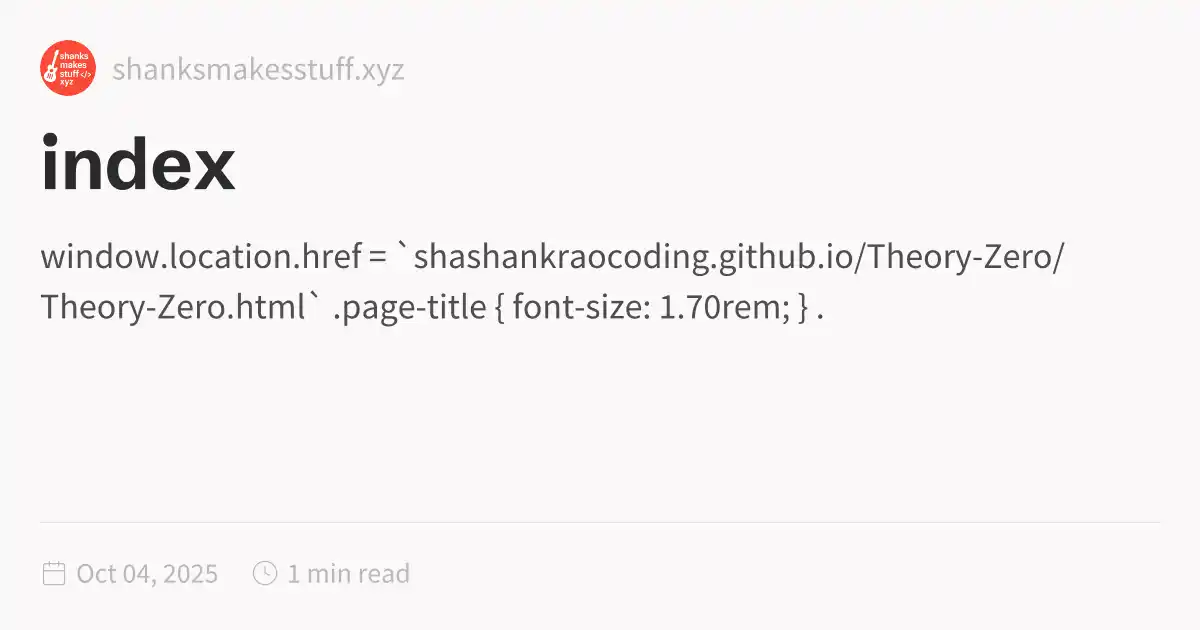
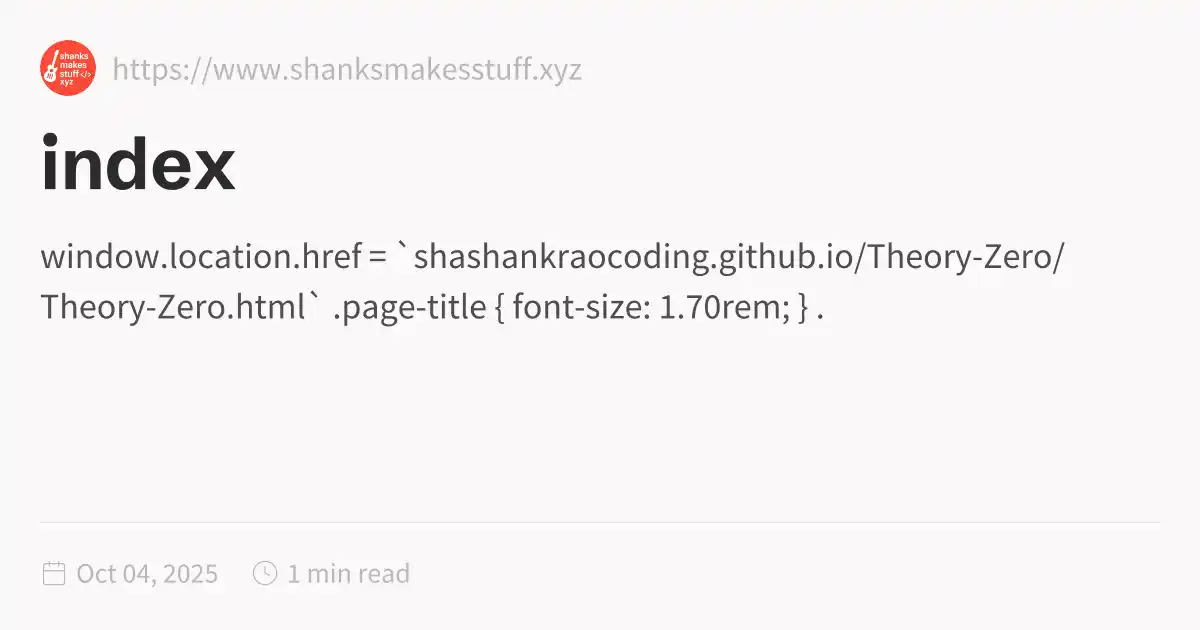
2025-11-30_2357

Changed region(s): [[0.0925, 0.0905, 0.4933, 0.1508]]

diff --git a/Theory-Zero.html b/Theory-Zero.html
@@ -1,5 +1,5 @@
 <!DOCTYPE html>
-<html lang="en"><head><title>Theory Zero</title><meta charset="utf-8"/><link rel="preconnect" href="https://fonts.googleapis.com"/><link rel="preconnect" href="https://fonts.gstatic.com"/><link rel="stylesheet" href="https://fonts.googleapis.com/css2?family=Schibsted Grotesk:wght@400;700&amp;family=Source Sans Pro:ital,wght@0,400;0,600;1,400;1,600&amp;family=IBM Plex Mono:wght@400;600&amp;display=swap"/><link rel="preconnect" href="https://cdnjs.cloudflare.com" crossorigin="anonymous"/><meta name="viewport" content="width=device-width, initial-scale=1.0"/><meta name="og:site_name" content="ShanksMakesStuff"/><meta property="og:title" content="Theory Zero"/><meta property="og:type" content="website"/><meta name="twitter:card" content="summary_large_image"/><meta name="twitter:title" content="Theory Zero"/><meta name="twitter:description" content=".page-title { font-size: 1.70rem; text-wrap: nowrap; max-inline-size: 25vw; overflow: hidden; flex-wrap: no-wrap; } Introduction: This novelette attempts to explain why individuals organise into societal structures from a rules and survival based perspective, exploring historical examples and argum..."/><meta property="og:description" content=".page-title { font-size: 1.70rem; text-wrap: nowrap; max-inline-size: 25vw; overflow: hidden; flex-wrap: no-wrap; } Introduction: This novelette attempts to explain why individuals organise into societal structures from a rules and survival based perspective, exploring historical examples and argum..."/><meta property="og:image:alt" content=".page-title { font-size: 1.70rem; text-wrap: nowrap; max-inline-size: 25vw; overflow: hidden; flex-wrap: no-wrap; } Introduction: This novelette attempts to explain why individuals organise into societal structures from a rules and survival based perspective, exploring historical examples and argum..."/><meta property="twitter:domain" content="shanksmakesstuff.xyz"/><meta property="og:url" content="https://shanksmakesstuff.xyz/Theory-Zero"/><meta property="twitter:url" content="https://shanksmakesstuff.xyz/Theory-Zero"/><link rel="icon" href="./static/icon.png"/><meta name="description" content=".page-title { font-size: 1.70rem; text-wrap: nowrap; max-inline-size: 25vw; overflow: hidden; flex-wrap: no-wrap; } Introduction: This novelette attempts to explain why individuals organise into societal structures from a rules and survival based perspective, exploring historical examples and argum..."/><meta name="generator" content="Quartz"/><link href="./index.css" rel="stylesheet" type="text/css" spa-preserve/><style>.expand-button {
+<html lang="en"><head><title>Theory Zero</title><meta charset="utf-8"/><link rel="preconnect" href="https://fonts.googleapis.com"/><link rel="preconnect" href="https://fonts.gstatic.com"/><link rel="stylesheet" href="https://fonts.googleapis.com/css2?family=Schibsted Grotesk:wght@400;700&amp;family=Source Sans Pro:ital,wght@0,400;0,600;1,400;1,600&amp;family=IBM Plex Mono:wght@400;600&amp;display=swap"/><link rel="preconnect" href="https://cdnjs.cloudflare.com" crossorigin="anonymous"/><meta name="viewport" content="width=device-width, initial-scale=1.0"/><meta name="og:site_name" content="ShanksMakesStuff"/><meta property="og:title" content="Theory Zero"/><meta property="og:type" content="website"/><meta name="twitter:card" content="summary_large_image"/><meta name="twitter:title" content="Theory Zero"/><meta name="twitter:description" content=".page-title { font-size: 1.70rem; text-wrap: nowrap; max-inline-size: 25vw; overflow: hidden; flex-wrap: no-wrap; } Introduction: This novelette attempts to explain why individuals organise into societal structures from a rules and survival based perspective, exploring historical examples and argum..."/><meta property="og:description" content=".page-title { font-size: 1.70rem; text-wrap: nowrap; max-inline-size: 25vw; overflow: hidden; flex-wrap: no-wrap; } Introduction: This novelette attempts to explain why individuals organise into societal structures from a rules and survival based perspective, exploring historical examples and argum..."/><meta property="og:image:alt" content=".page-title { font-size: 1.70rem; text-wrap: nowrap; max-inline-size: 25vw; overflow: hidden; flex-wrap: no-wrap; } Introduction: This novelette attempts to explain why individuals organise into societal structures from a rules and survival based perspective, exploring historical examples and argum..."/><meta property="twitter:domain" content="https://www.shanksmakesstuff.xyz"/><meta property="og:url" content="https://https//www.shanksmakesstuff.xyz/Theory-Zero"/><meta property="twitter:url" content="https://https//www.shanksmakesstuff.xyz/Theory-Zero"/><link rel="icon" href="./static/icon.png"/><meta name="description" content=".page-title { font-size: 1.70rem; text-wrap: nowrap; max-inline-size: 25vw; overflow: hidden; flex-wrap: no-wrap; } Introduction: This novelette attempts to explain why individuals organise into societal structures from a rules and survival based perspective, exploring historical examples and argum..."/><meta name="generator" content="Quartz"/><link href="./index.css" rel="stylesheet" type="text/css" spa-preserve/><style>.expand-button {
   position: absolute;
   display: flex;
   float: right;
@@ -116,7 +116,7 @@ pre:hover > .expand-button {
   padding: 0 12px;
   font-size: 14px;
 }
[2 lines of base64/hex data omitted]
 	<style> 
 		.page-title { 
 			font-size: 1.70rem; 

diff --git a/tags/index.html b/tags/index.html
@@ -1,5 +1,5 @@
 <!DOCTYPE html>
-<html lang="en"><head><title>Tag Index</title><meta charset="utf-8"/><link rel="preconnect" href="https://fonts.googleapis.com"/><link rel="preconnect" href="https://fonts.gstatic.com"/><link rel="stylesheet" href="https://fonts.googleapis.com/css2?family=Schibsted Grotesk:wght@400;700&amp;family=Source Sans Pro:ital,wght@0,400;0,600;1,400;1,600&amp;family=IBM Plex Mono:wght@400;600&amp;display=swap"/><link rel="preconnect" href="https://cdnjs.cloudflare.com" crossorigin="anonymous"/><meta name="viewport" content="width=device-width, initial-scale=1.0"/><meta name="og:site_name" content="ShanksMakesStuff"/><meta property="og:title" content="Tag Index"/><meta property="og:type" content="website"/><meta name="twitter:card" content="summary_large_image"/><meta name="twitter:title" content="Tag Index"/><meta name="twitter:description" content="No description provided"/><meta property="og:description" content="No description provided"/><meta property="og:image:alt" content="No description provided"/><meta property="twitter:domain" content="shanksmakesstuff.xyz"/><meta property="og:url" content="https://shanksmakesstuff.xyz/tags/index"/><meta property="twitter:url" content="https://shanksmakesstuff.xyz/tags/index"/><link rel="icon" href="../static/icon.png"/><meta name="description" content="No description provided"/><meta name="generator" content="Quartz"/><link href="../index.css" rel="stylesheet" type="text/css" spa-preserve/><style>.expand-button {
+<html lang="en"><head><title>Tag Index</title><meta charset="utf-8"/><link rel="preconnect" href="https://fonts.googleapis.com"/><link rel="preconnect" href="https://fonts.gstatic.com"/><link rel="stylesheet" href="https://fonts.googleapis.com/css2?family=Schibsted Grotesk:wght@400;700&amp;family=Source Sans Pro:ital,wght@0,400;0,600;1,400;1,600&amp;family=IBM Plex Mono:wght@400;600&amp;display=swap"/><link rel="preconnect" href="https://cdnjs.cloudflare.com" crossorigin="anonymous"/><meta name="viewport" content="width=device-width, initial-scale=1.0"/><meta name="og:site_name" content="ShanksMakesStuff"/><meta property="og:title" content="Tag Index"/><meta property="og:type" content="website"/><meta name="twitter:card" content="summary_large_image"/><meta name="twitter:title" content="Tag Index"/><meta name="twitter:description" content="No description provided"/><meta property="og:description" content="No description provided"/><meta property="og:image:alt" content="No description provided"/><meta property="twitter:domain" content="https://www.shanksmakesstuff.xyz"/><meta property="og:url" content="https://https//www.shanksmakesstuff.xyz/tags/index"/><meta property="twitter:url" content="https://https//www.shanksmakesstuff.xyz/tags/index"/><link rel="icon" href="../static/icon.png"/><meta name="description" content="No description provided"/><meta name="generator" content="Quartz"/><link href="../index.css" rel="stylesheet" type="text/css" spa-preserve/><style>.expand-button {
   position: absolute;
   display: flex;
   float: right;
@@ -116,6 +116,6 @@ pre:hover > .expand-button {
   padding: 0 12px;
   font-size: 14px;
 }
[2 lines of base64/hex data omitted]
 </script><script type="module">function f(i,e){if(!i)return;function r(o){o.target===this&&(o.preventDefault(),o.stopPropagation(),e())}function t(o){o.key.startsWith("Esc")&&(o.preventDefault(),e())}i?.addEventListener("click",r),window.addCleanup(()=>i?.removeEventListener("click",r)),document.addEventListener("keydown",t),window.addCleanup(()=>document.removeEventListener("keydown",t))}function y(i){for(;i.firstChild;)i.removeChild(i.firstChild)}var h=class{constructor(e,r){this.container=e;this.content=r;this.setupEventListeners(),this.setupNavigationControls(),this.resetTransform()}isDragging=!1;startPan={x:0,y:0};currentPan={x:0,y:0};scale=1;MIN_SCALE=.5;MAX_SCALE=3;cleanups=[];setupEventListeners(){let e=this.onMouseDown.bind(this),r=this.onMouseMove.bind(this),t=this.onMouseUp.bind(this),o=this.resetTransform.bind(this);this.container.addEventListener("mousedown",e),document.addEventListener("mousemove",r),document.addEventListener("mouseup",t),window.addEventListener("resize",o),this.cleanups.push(()=>this.container.removeEventListener("mousedown",e),()=>document.removeEventListener("mousemove",r),()=>document.removeEventListener("mouseup",t),()=>window.removeEventListener("resize",o))}cleanup(){for(let e of this.cleanups)e()}setupNavigationControls(){let e=document.createElement("div");e.className="mermaid-controls";let r=this.createButton("+",()=>this.zoom(.1)),t=this.createButton("-",()=>this.zoom(-.1)),o=this.createButton("Reset",()=>this.resetTransform());e.appendChild(t),e.appendChild(o),e.appendChild(r),this.container.appendChild(e)}createButton(e,r){let t=document.createElement("button");return t.textContent=e,t.className="mermaid-control-button",t.addEventListener("click",r),window.addCleanup(()=>t.removeEventListener("click",r)),t}onMouseDown(e){e.button===0&&(this.isDragging=!0,this.startPan={x:e.clientX-this.currentPan.x,y:e.clientY-this.currentPan.y},this.container.style.cursor="grabbing")}onMouseMove(e){this.isDragging&&(e.preventDefault(),this.currentPan={x:e.clientX-this.startPan.x,y:e.clientY-this.startPan.y},this.updateTransform())}onMouseUp(){this.isDragging=!1,this.container.style.cursor="grab"}zoom(e){let r=Math.min(Math.max(this.scale+e,this.MIN_SCALE),this.MAX_SCALE),t=this.content.getBoundingClientRect(),o=t.width/2,n=t.height/2,c=r-this.scale;this.currentPan.x-=o*c,this.currentPan.y-=n*c,this.scale=r,this.updateTransform()}updateTransform(){this.content.style.transform=`translate(${this.currentPan.x}px, ${this.currentPan.y}px) scale(${this.scale})`}resetTransform(){this.scale=1;let e=this.content.querySelector("svg");this.currentPan={x:e.getBoundingClientRect().width/2,y:e.getBoundingClientRect().height/2},this.updateTransform()}},C=["--secondary","--tertiary","--gray","--light","--lightgray","--highlight","--dark","--darkgray","--codeFont"],E;document.addEventListener("nav",async()=>{let e=document.querySelector(".center").querySelectorAll("code.mermaid");if(e.length===0)return;E||=await import("https://cdnjs.cloudflare.com/ajax/libs/mermaid/11.4.0/mermaid.esm.min.mjs");let r=E.default,t=new WeakMap;for(let n of e)t.set(n,n.innerText);async function o(){for(let s of e){s.removeAttribute("data-processed");let a=t.get(s);a&&(s.innerHTML=a)}let n=C.reduce((s,a)=>(s[a]=window.getComputedStyle(document.documentElement).getPropertyValue(a),s),{}),c=document.documentElement.getAttribute("saved-theme")==="dark";r.initialize({startOnLoad:!1,securityLevel:"loose",theme:c?"dark":"base",themeVariables:{fontFamily:n["--codeFont"],primaryColor:n["--light"],primaryTextColor:n["--darkgray"],primaryBorderColor:n["--tertiary"],lineColor:n["--darkgray"],secondaryColor:n["--secondary"],tertiaryColor:n["--tertiary"],clusterBkg:n["--light"],edgeLabelBackground:n["--highlight"]}}),await r.run({nodes:e})}await o(),document.addEventListener("themechange",o),window.addCleanup(()=>document.removeEventListener("themechange",o));for(let n=0;n<e.length;n++){let v=function(){let g=l.querySelector("#mermaid-space"),m=l.querySelector(".mermaid-content");if(!m)return;y(m);let w=c.querySelector("svg").cloneNode(!0);m.appendChild(w),l.classList.add("active"),g.style.cursor="grab",u=new h(g,m)},M=function(){l.classList.remove("active"),u?.cleanup(),u=null},c=e[n],s=c.parentElement,a=s.querySelector(".clipboard-button"),d=s.querySelector(".expand-button"),p=window.getComputedStyle(a),L=a.offsetWidth+parseFloat(p.marginLeft||"0")+parseFloat(p.marginRight||"0");d.style.right=`calc(${L}px + 0.3rem)`,s.prepend(d);let l=s.querySelector("#mermaid-container");if(!l)return;let u=null;d.addEventListener("click",v),f(l,M),window.addCleanup(()=>{u?.cleanup(),d.removeEventListener("click",v)})}});
 </script><script src="https://cdn.jsdelivr.net/npm/katex@0.16.11/dist/contrib/copy-tex.min.js" type="application/javascript"></script><script src="../postscript.js" type="module"></script></html>

diff --git a/index.html b/index.html
@@ -1,5 +1,5 @@
 <!DOCTYPE html>
-<html lang="en"><head><title>index</title><meta charset="utf-8"/><link rel="preconnect" href="https://fonts.googleapis.com"/><link rel="preconnect" href="https://fonts.gstatic.com"/><link rel="stylesheet" href="https://fonts.googleapis.com/css2?family=Schibsted Grotesk:wght@400;700&amp;family=Source Sans Pro:ital,wght@0,400;0,600;1,400;1,600&amp;family=IBM Plex Mono:wght@400;600&amp;display=swap"/><link rel="preconnect" href="https://cdnjs.cloudflare.com" crossorigin="anonymous"/><meta name="viewport" content="width=device-width, initial-scale=1.0"/><meta name="og:site_name" content="ShanksMakesStuff"/><meta property="og:title" content="index"/><meta property="og:type" content="website"/><meta name="twitter:card" content="summary_large_image"/><meta name="twitter:title" content="index"/><meta name="twitter:description" content="window.location.href = `shashankraocoding.github.io/Theory-Zero/Theory-Zero.html` .page-title { font-size: 1.70rem; } ."/><meta property="og:description" content="window.location.href = `shashankraocoding.github.io/Theory-Zero/Theory-Zero.html` .page-title { font-size: 1.70rem; } ."/><meta property="og:image:alt" content="window.location.href = `shashankraocoding.github.io/Theory-Zero/Theory-Zero.html` .page-title { font-size: 1.70rem; } ."/><meta property="twitter:domain" content="shanksmakesstuff.xyz"/><meta property="og:url" content="https://shanksmakesstuff.xyz/index"/><meta property="twitter:url" content="https://shanksmakesstuff.xyz/index"/><link rel="icon" href="./static/icon.png"/><meta name="description" content="window.location.href = `shashankraocoding.github.io/Theory-Zero/Theory-Zero.html` .page-title { font-size: 1.70rem; } ."/><meta name="generator" content="Quartz"/><link href="./index.css" rel="stylesheet" type="text/css" spa-preserve/><style>.expand-button {
+<html lang="en"><head><title>index</title><meta charset="utf-8"/><link rel="preconnect" href="https://fonts.googleapis.com"/><link rel="preconnect" href="https://fonts.gstatic.com"/><link rel="stylesheet" href="https://fonts.googleapis.com/css2?family=Schibsted Grotesk:wght@400;700&amp;family=Source Sans Pro:ital,wght@0,400;0,600;1,400;1,600&amp;family=IBM Plex Mono:wght@400;600&amp;display=swap"/><link rel="preconnect" href="https://cdnjs.cloudflare.com" crossorigin="anonymous"/><meta name="viewport" content="width=device-width, initial-scale=1.0"/><meta name="og:site_name" content="ShanksMakesStuff"/><meta property="og:title" content="index"/><meta property="og:type" content="website"/><meta name="twitter:card" content="summary_large_image"/><meta name="twitter:title" content="index"/><meta name="twitter:description" content="window.location.href = `shashankraocoding.github.io/Theory-Zero/Theory-Zero.html` .page-title { font-size: 1.70rem; } ."/><meta property="og:description" content="window.location.href = `shashankraocoding.github.io/Theory-Zero/Theory-Zero.html` .page-title { font-size: 1.70rem; } ."/><meta property="og:image:alt" content="window.location.href = `shashankraocoding.github.io/Theory-Zero/Theory-Zero.html` .page-title { font-size: 1.70rem; } ."/><meta property="twitter:domain" content="https://www.shanksmakesstuff.xyz"/><meta property="og:url" content="https://https//www.shanksmakesstuff.xyz/index"/><meta property="twitter:url" content="https://https//www.shanksmakesstuff.xyz/index"/><link rel="icon" href="./static/icon.png"/><meta name="description" content="window.location.href = `shashankraocoding.github.io/Theory-Zero/Theory-Zero.html` .page-title { font-size: 1.70rem; } ."/><meta name="generator" content="Quartz"/><link href="./index.css" rel="stylesheet" type="text/css" spa-preserve/><style>.expand-button {
   position: absolute;
   display: flex;
   float: right;
@@ -116,7 +116,7 @@ pre:hover > .expand-button {
   padding: 0 12px;
   font-size: 14px;
 }
[2 lines of base64/hex data omitted]
 	<script> 
 		window.location.href = `https://shashankraocoding.github.io/Theory-Zero/Theory-Zero.html` 
 	</script> 

diff --git a/404.html b/404.html
@@ -1,5 +1,5 @@
 <!DOCTYPE html>
-<html lang="en"><head><title>Not Found</title><meta charset="utf-8"/><link rel="preconnect" href="https://fonts.googleapis.com"/><link rel="preconnect" href="https://fonts.gstatic.com"/><link rel="stylesheet" href="https://fonts.googleapis.com/css2?family=Schibsted Grotesk:wght@400;700&amp;family=Source Sans Pro:ital,wght@0,400;0,600;1,400;1,600&amp;family=IBM Plex Mono:wght@400;600&amp;display=swap"/><link rel="preconnect" href="https://cdnjs.cloudflare.com" crossorigin="anonymous"/><meta name="viewport" content="width=device-width, initial-scale=1.0"/><meta name="og:site_name" content="ShanksMakesStuff"/><meta property="og:title" content="Not Found"/><meta property="og:type" content="website"/><meta name="twitter:card" content="summary_large_image"/><meta name="twitter:title" content="Not Found"/><meta name="twitter:description" content="Not Found"/><meta property="og:description" content="Not Found"/><meta property="og:image:alt" content="Not Found"/><meta property="twitter:domain" content="shanksmakesstuff.xyz"/><meta property="og:url" content="https://shanksmakesstuff.xyz/"/><meta property="twitter:url" content="https://shanksmakesstuff.xyz/"/><link rel="icon" href="/static/icon.png"/><meta name="description" content="Not Found"/><meta name="generator" content="Quartz"/><link href="/index.css" rel="stylesheet" type="text/css" spa-preserve/><style>.expand-button {
+<html lang="en"><head><title>Not Found</title><meta charset="utf-8"/><link rel="preconnect" href="https://fonts.googleapis.com"/><link rel="preconnect" href="https://fonts.gstatic.com"/><link rel="stylesheet" href="https://fonts.googleapis.com/css2?family=Schibsted Grotesk:wght@400;700&amp;family=Source Sans Pro:ital,wght@0,400;0,600;1,400;1,600&amp;family=IBM Plex Mono:wght@400;600&amp;display=swap"/><link rel="preconnect" href="https://cdnjs.cloudflare.com" crossorigin="anonymous"/><meta name="viewport" content="width=device-width, initial-scale=1.0"/><meta name="og:site_name" content="ShanksMakesStuff"/><meta property="og:title" content="Not Found"/><meta property="og:type" content="website"/><meta name="twitter:card" content="summary_large_image"/><meta name="twitter:title" content="Not Found"/><meta name="twitter:description" content="Not Found"/><meta property="og:description" content="Not Found"/><meta property="og:image:alt" content="Not Found"/><meta property="twitter:domain" content="https://www.shanksmakesstuff.xyz"/><meta property="og:url" content="https://https//www.shanksmakesstuff.xyz"/><meta property="twitter:url" content="https://https//www.shanksmakesstuff.xyz"/><link rel="icon" href="//www.shanksmakesstuff.xyz/static/icon.png"/><meta name="description" content="Not Found"/><meta name="generator" content="Quartz"/><link href="//www.shanksmakesstuff.xyz/index.css" rel="stylesheet" type="text/css" spa-preserve/><style>.expand-button {
   position: absolute;
   display: flex;
   float: right;
@@ -116,6 +116,6 @@ pre:hover > .expand-button {
   padding: 0 12px;
   font-size: 14px;
 }
[2 lines of base64/hex data omitted]
 </script><script type="module">function f(i,e){if(!i)return;function r(o){o.target===this&&(o.preventDefault(),o.stopPropagation(),e())}function t(o){o.key.startsWith("Esc")&&(o.preventDefault(),e())}i?.addEventListener("click",r),window.addCleanup(()=>i?.removeEventListener("click",r)),document.addEventListener("keydown",t),window.addCleanup(()=>document.removeEventListener("keydown",t))}function y(i){for(;i.firstChild;)i.removeChild(i.firstChild)}var h=class{constructor(e,r){this.container=e;this.content=r;this.setupEventListeners(),this.setupNavigationControls(),this.resetTransform()}isDragging=!1;startPan={x:0,y:0};currentPan={x:0,y:0};scale=1;MIN_SCALE=.5;MAX_SCALE=3;cleanups=[];setupEventListeners(){let e=this.onMouseDown.bind(this),r=this.onMouseMove.bind(this),t=this.onMouseUp.bind(this),o=this.resetTransform.bind(this);this.container.addEventListener("mousedown",e),document.addEventListener("mousemove",r),document.addEventListener("mouseup",t),window.addEventListener("resize",o),this.cleanups.push(()=>this.container.removeEventListener("mousedown",e),()=>document.removeEventListener("mousemove",r),()=>document.removeEventListener("mouseup",t),()=>window.removeEventListener("resize",o))}cleanup(){for(let e of this.cleanups)e()}setupNavigationControls(){let e=document.createElement("div");e.className="mermaid-controls";let r=this.createButton("+",()=>this.zoom(.1)),t=this.createButton("-",()=>this.zoom(-.1)),o=this.createButton("Reset",()=>this.resetTransform());e.appendChild(t),e.appendChild(o),e.appendChild(r),this.container.appendChild(e)}createButton(e,r){let t=document.createElement("button");return t.textContent=e,t.className="mermaid-control-button",t.addEventListener("click",r),window.addCleanup(()=>t.removeEventListener("click",r)),t}onMouseDown(e){e.button===0&&(this.isDragging=!0,this.startPan={x:e.clientX-this.currentPan.x,y:e.clientY-this.currentPan.y},this.container.style.cursor="grabbing")}onMouseMove(e){this.isDragging&&(e.preventDefault(),this.currentPan={x:e.clientX-this.startPan.x,y:e.clientY-this.startPan.y},this.updateTransform())}onMouseUp(){this.isDragging=!1,this.container.style.cursor="grab"}zoom(e){let r=Math.min(Math.max(this.scale+e,this.MIN_SCALE),this.MAX_SCALE),t=this.content.getBoundingClientRect(),o=t.width/2,n=t.height/2,c=r-this.scale;this.currentPan.x-=o*c,this.currentPan.y-=n*c,this.scale=r,this.updateTransform()}updateTransform(){this.content.style.transform=`translate(${this.currentPan.x}px, ${this.currentPan.y}px) scale(${this.scale})`}resetTransform(){this.scale=1;let e=this.content.querySelector("svg");this.currentPan={x:e.getBoundingClientRect().width/2,y:e.getBoundingClientRect().height/2},this.updateTransform()}},C=["--secondary","--tertiary","--gray","--light","--lightgray","--highlight","--dark","--darkgray","--codeFont"],E;document.addEventListener("nav",async()=>{let e=document.querySelector(".center").querySelectorAll("code.mermaid");if(e.length===0)return;E||=await import("https://cdnjs.cloudflare.com/ajax/libs/mermaid/11.4.0/mermaid.esm.min.mjs");let r=E.default,t=new WeakMap;for(let n of e)t.set(n,n.innerText);async function o(){for(let s of e){s.removeAttribute("data-processed");let a=t.get(s);a&&(s.innerHTML=a)}let n=C.reduce((s,a)=>(s[a]=window.getComputedStyle(document.documentElement).getPropertyValue(a),s),{}),c=document.documentElement.getAttribute("saved-theme")==="dark";r.initialize({startOnLoad:!1,securityLevel:"loose",theme:c?"dark":"base",themeVariables:{fontFamily:n["--codeFont"],primaryColor:n["--light"],primaryTextColor:n["--darkgray"],primaryBorderColor:n["--tertiary"],lineColor:n["--darkgray"],secondaryColor:n["--secondary"],tertiaryColor:n["--tertiary"],clusterBkg:n["--light"],edgeLabelBackground:n["--highlight"]}}),await r.run({nodes:e})}await o(),document.addEventListener("themechange",o),window.addCleanup(()=>document.removeEventListener("themechange",o));for(let n=0;n<e.length;n++){let v=function(){let g=l.querySelector("#mermaid-space"),m=l.querySelector(".mermaid-content");if(!m)return;y(m);let w=c.querySelector("svg").cloneNode(!0);m.appendChild(w),l.classList.add("active"),g.style.cursor="grab",u=new h(g,m)},M=function(){l.classList.remove("active"),u?.cleanup(),u=null},c=e[n],s=c.parentElement,a=s.querySelector(".clipboard-button"),d=s.querySelector(".expand-button"),p=window.getComputedStyle(a),L=a.offsetWidth+parseFloat(p.marginLeft||"0")+parseFloat(p.marginRight||"0");d.style.right=`calc(${L}px + 0.3rem)`,s.prepend(d);let l=s.querySelector("#mermaid-container");if(!l)return;let u=null;d.addEventListener("click",v),f(l,M),window.addCleanup(()=>{u?.cleanup(),d.removeEventListener("click",v)})}});
-</script><script src="https://cdn.jsdelivr.net/npm/katex@0.16.11/dist/contrib/copy-tex.min.js" type="application/javascript"></script><script src="/postscript.js" type="module"></script></html>
+</script><script src="https://cdn.jsdelivr.net/npm/katex@0.16.11/dist/contrib/copy-tex.min.js" type="application/javascript"></script><script src="//www.shanksmakesstuff.xyz/postscript.js" type="module"></script></html>
